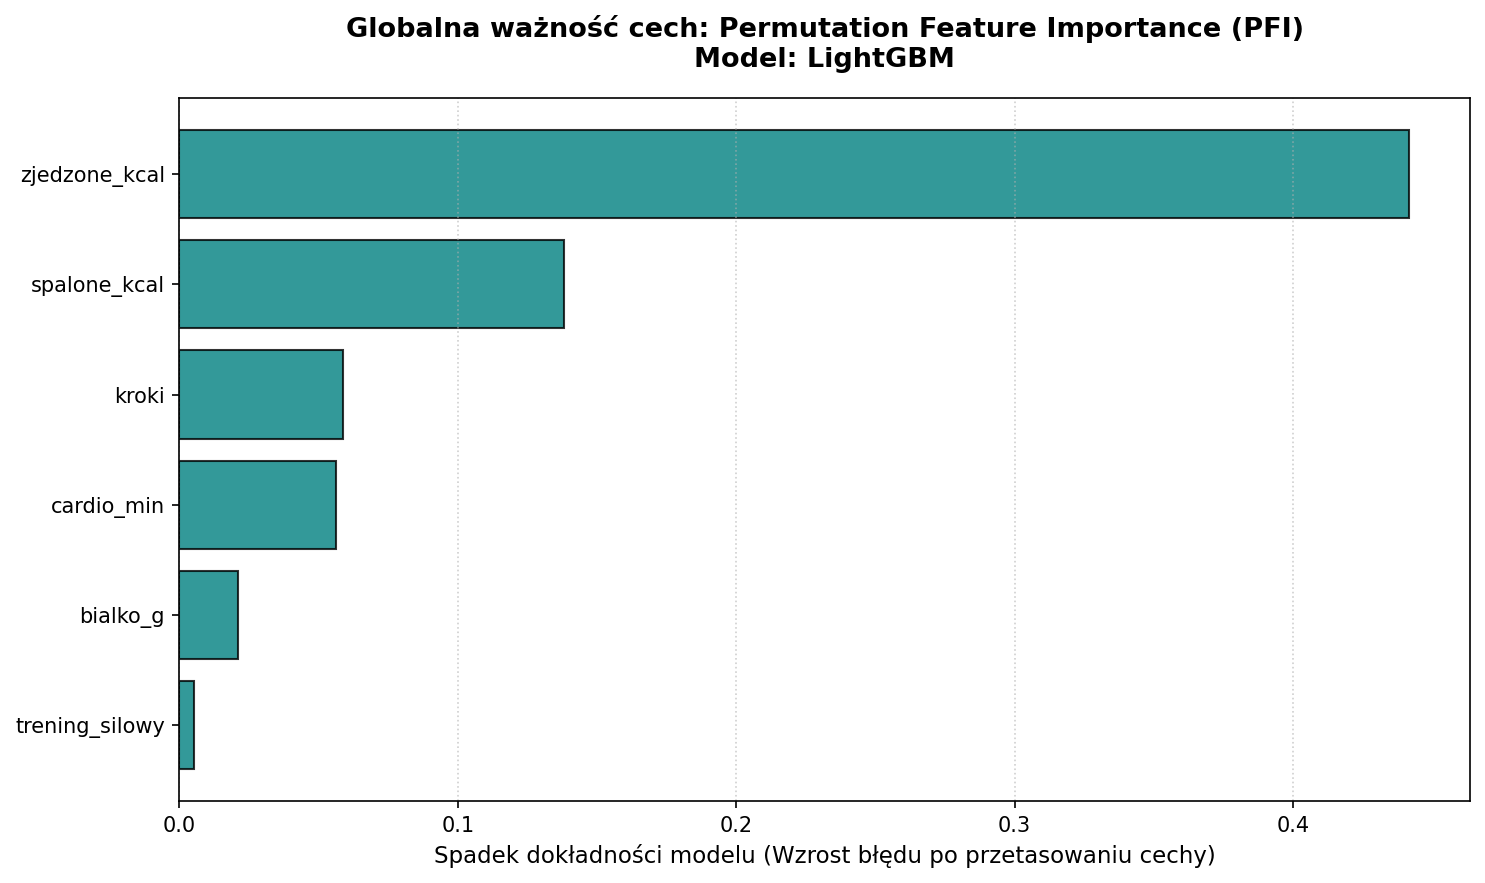
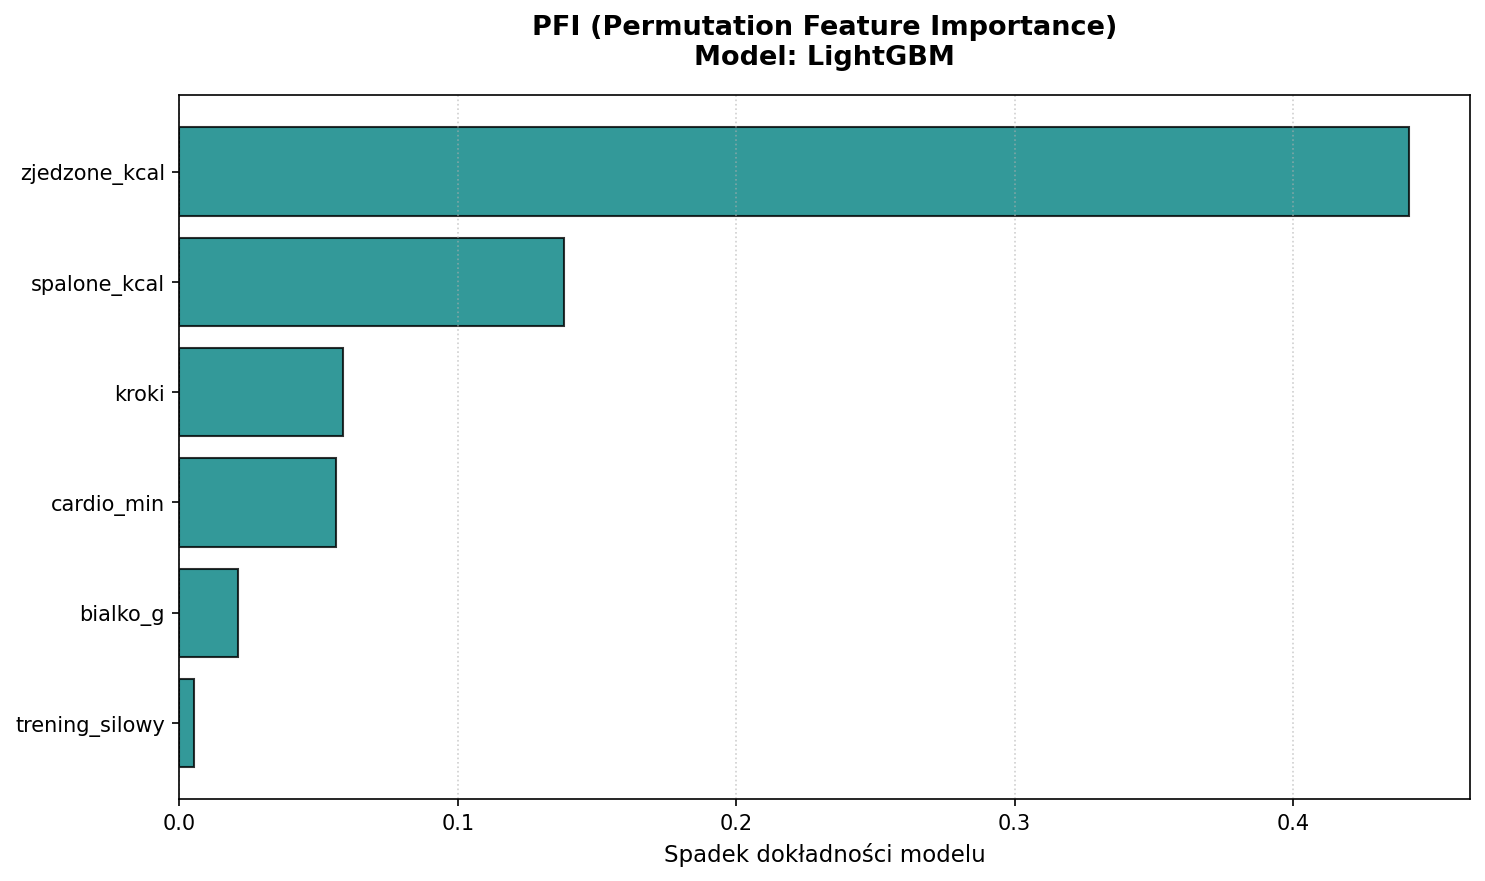
zoptymalizowany model udoskonalony o shap i pfi

diff --git a/model_porownanie_ostatecznie.py b/model_porownanie_ostatecznie.py
@@ -445,8 +445,8 @@ try:
     # generowanie wykresu
     plt.figure(figsize=(10, 6))
     plt.barh(cechy_sortowane, waznosc_sortowana, color='#008080', edgecolor='black', alpha=0.8)
-    plt.xlabel("Spadek dokładności modelu (Wzrost błędu po przetasowaniu cechy)", fontsize=11)
-    plt.title("Globalna ważność cech: Permutation Feature Importance (PFI)\nModel: LightGBM", fontsize=13,
+    plt.xlabel("Spadek dokładności modelu", fontsize=11)
+    plt.title("PFI (Permutation Feature Importance)\nModel: LightGBM", fontsize=13,
               fontweight='bold', pad=15)
     plt.grid(True, linestyle=':', alpha=0.6, axis='x')
 